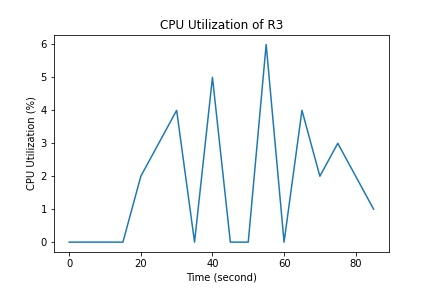
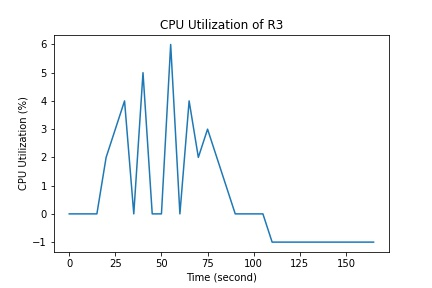
add seperate scripts for plotting of each router

diff --git a/flask-dashboard-corona-dark-master/app/home/collect_cpu_data.py b/flask-dashboard-corona-dark-master/app/home/collect_cpu_data.py
@@ -1,0 +1,33 @@
+from csv import writer
+import time
+from easysnmp import snmp_walk
+from os import path
+
+if not path.exists('cpu.csv'):
+    with open('cpu.csv','w') as f:
+        header = ['R1','R2','R3','R4','R5']
+        writer_f = writer(f)
+        writer_f.writerow(header)
+        f.close()
+
+def get_cpu(device_list): # get current cpu utilization of all devices
+    cpu_data = []
+    for host_ip in device_list:
+        try:
+            cpu = snmp_walk('.1.3.6.1.4.1.9.9.109.1.1.1.1.6', hostname=host_ip, community='public', version=2, use_sprint_value=True)
+            for item in cpu:
+                cpu_data.append(int(item.value))
+        except:
+            cpu_data.append(-1) # value -1 indicates SNMP connection isn't properly established
+    return cpu_data
+    
+device_list = ['198.51.100.11','198.51.100.12','198.51.100.13','198.51.100.14','198.51.100.15']
+# try:
+with open('cpu.csv','a') as f: # collect cpu data every 5 seconds and add to cpu.csv
+    writer_f = writer(f)
+    while True:
+        new_data = get_cpu(device_list)
+        writer_f.writerow(new_data)
+        time.sleep(5)
+# except:
+#     print("Configure SNMPv2c on managed devices first.")

diff --git a/flask-dashboard-corona-dark-master/app/home/plot_r1_cpu.py b/flask-dashboard-corona-dark-master/app/home/plot_r1_cpu.py
@@ -1,0 +1,17 @@
+# get data and plot R1 cpu utilization
+import pandas
+import matplotlib.pyplot as plt
+import numpy as np
+
+colnames = ['R1','R2','R3','R4','R5']
+data = pandas.read_csv('cpu.csv',header=1,names=colnames)
+r1_data = data.R1.tolist() # get all data of router R1
+x_max = len(r1_data)
+time = list(range(x_max))
+time = [ele * 5 for ele in time]
+plt.plot(time, r1_data)
+plt.title('CPU Utilization of '+'R1')
+plt.xlabel('Time (second)')
+plt.ylabel('CPU Utilization (%)')
+plt.savefig('{}_cpu.jpg'.format('R1'))
+plt.show()

diff --git a/flask-dashboard-corona-dark-master/app/home/plot_r2_cpu.py b/flask-dashboard-corona-dark-master/app/home/plot_r2_cpu.py
@@ -1,0 +1,17 @@
+# get data and plot R2 cpu utilization
+import pandas
+import matplotlib.pyplot as plt
+import numpy as np
+
+colnames = ['R1','R2','R3','R4','R5']
+data = pandas.read_csv('cpu.csv',header=1,names=colnames)
+r2_data = data.R2.tolist() # get all data of router R2
+x_max = len(r2_data)
+time = list(range(x_max))
+time = [ele * 5 for ele in time]
+plt.plot(time, r2_data)
+plt.title('CPU Utilization of '+'R2')
+plt.xlabel('Time (second)')
+plt.ylabel('CPU Utilization (%)')
+plt.savefig('{}_cpu.jpg'.format('R2'))
+plt.show()

diff --git a/flask-dashboard-corona-dark-master/app/home/plot_r3_cpu.py b/flask-dashboard-corona-dark-master/app/home/plot_r3_cpu.py
@@ -1,0 +1,17 @@
+# get data and plot R3 cpu utilization
+import pandas
+import matplotlib.pyplot as plt
+import numpy as np
+
+colnames = ['R1','R2','R3','R4','R5']
+data = pandas.read_csv('cpu.csv',header=1,names=colnames)
+r3_data = data.R3.tolist() # get all data of router R3
+x_max = len(r3_data)
+time = list(range(x_max))
+time = [ele * 5 for ele in time]
+plt.plot(time, r3_data)
+plt.title('CPU Utilization of '+'R3')
+plt.xlabel('Time (second)')
+plt.ylabel('CPU Utilization (%)')
+plt.savefig('{}_cpu.jpg'.format('R3'))
+plt.show()

diff --git a/flask-dashboard-corona-dark-master/app/home/plot_r4_cpu.py b/flask-dashboard-corona-dark-master/app/home/plot_r4_cpu.py
@@ -1,0 +1,17 @@
+# get data and plot R4 cpu utilization
+import pandas
+import matplotlib.pyplot as plt
+import numpy as np
+
+colnames = ['R1','R2','R3','R4','R5']
+data = pandas.read_csv('cpu.csv',header=1,names=colnames)
+r4_data = data.R4.tolist() # get all data of router R4
+x_max = len(r4_data)
+time = list(range(x_max))
+time = [ele * 5 for ele in time]
+plt.plot(time, r4_data)
+plt.title('CPU Utilization of '+'R4')
+plt.xlabel('Time (second)')
+plt.ylabel('CPU Utilization (%)')
+plt.savefig('{}_cpu.jpg'.format('R4'))
+plt.show()

diff --git a/flask-dashboard-corona-dark-master/app/home/plot_r5_cpu.py b/flask-dashboard-corona-dark-master/app/home/plot_r5_cpu.py
@@ -1,0 +1,17 @@
+# get data and plot R5 cpu utilization
+import pandas
+import matplotlib.pyplot as plt
+import numpy as np
+
+colnames = ['R1','R2','R3','R4','R5']
+data = pandas.read_csv('cpu.csv',header=1,names=colnames)
+r5_data = data.R5.tolist() # get all data of router R5
+x_max = len(r5_data)
+time = list(range(x_max))
+time = [ele * 5 for ele in time]
+plt.plot(time, r5_data)
+plt.title('CPU Utilization of '+'R5')
+plt.xlabel('Time (second)')
+plt.ylabel('CPU Utilization (%)')
+plt.savefig('{}_cpu.jpg'.format('R5'))
+plt.show()
